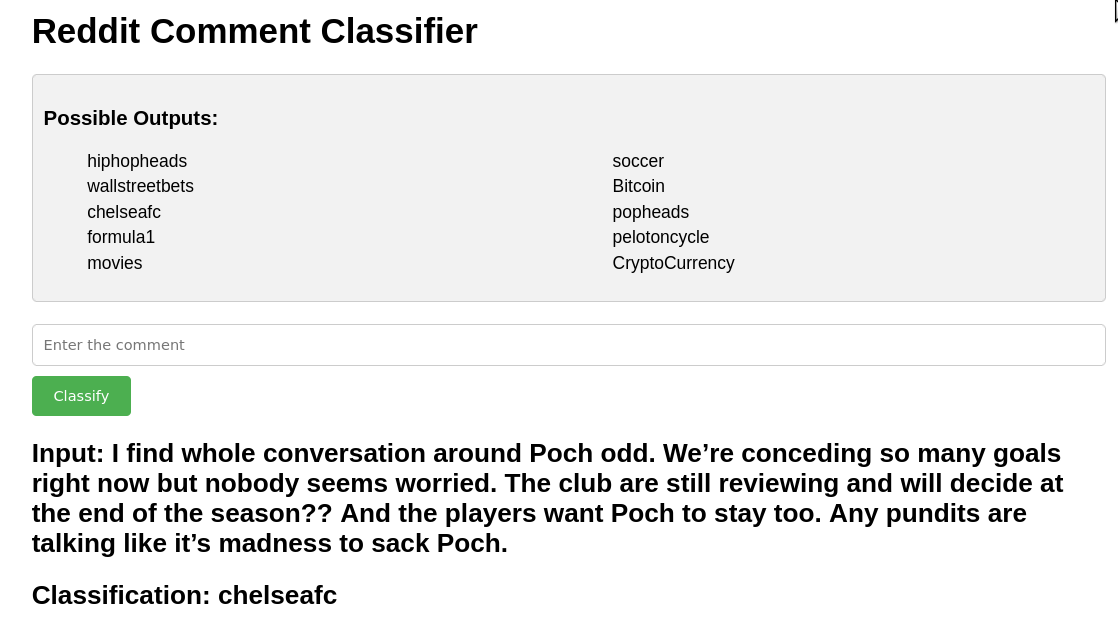
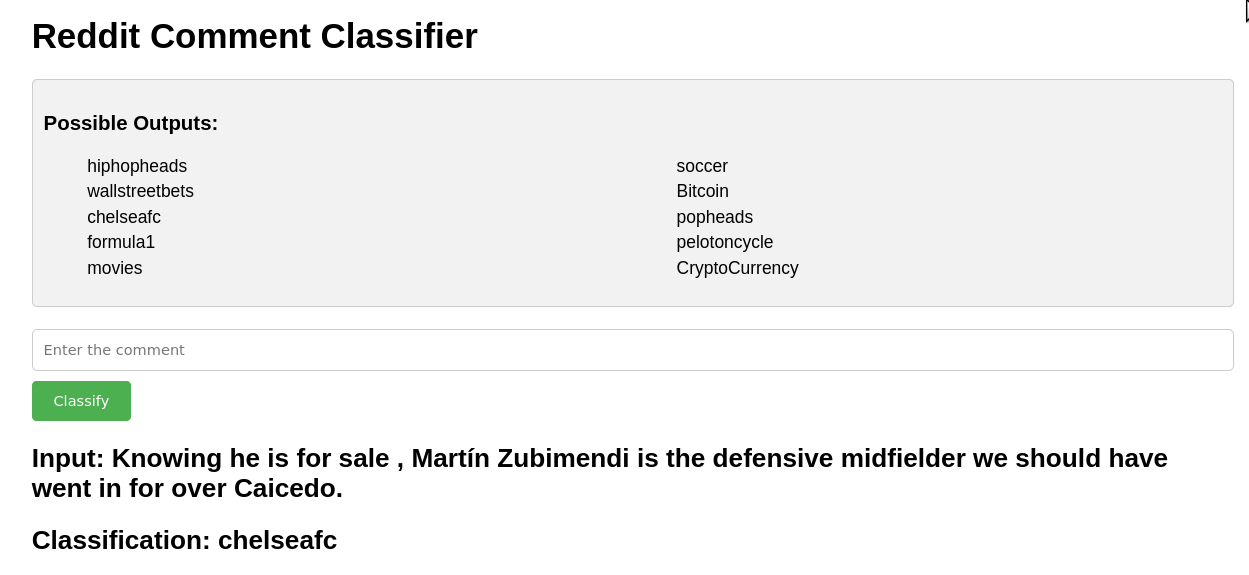
readme

diff --git a/README.md b/README.md
@@ -77,22 +77,19 @@ docker run -p 5000:5000 nickeisenberg/reddit-comment-classifier:v0.0
 
 # Small Demo 
 Here are two comments from April 26th's
-[soccer](https://www.reddit.com/r/soccer/comments/1cdcxww/daily_discussion/)
+[soccer](https://www.reddit.com/r/soccer/comments/1ce59q1/comment/l1h5nzl/?utm_source=share&utm_medium=web3x&utm_name=web3xcss&utm_term=1&utm_content=share_button)
 and
-[chelseafc](https://www.reddit.com/r/chelseafc/comments/1cdcy2m/daily_discussion_thread/)
+[chelseafc](https://www.reddit.com/r/chelseafc/comments/1cdcy2m/comment/l1fvy53/?utm_source=share&utm_medium=web3x&utm_name=web3xcss&utm_term=1&utm_content=share_button)
 daily discussion
 
-* Soccer: Wirtz potentially using Bayern as a stepping stone to playing abroad
-  feels weird, feel like they are the one club along with Barcelona(Exception
-  being R9 one time and i guess Neymar but that was a money thing) and Madrid
-  that does not happen to and Kroos doesn't really count because it was a money
-  thing 
+* Soccer: Dante since turning 35 has already racked up almost 200 appearances
+  for OGC Nice. Honestly fair play to him he was never the greatest CB on the
+  planet but staying at a mid-level club in a top league into your 40's is
+  always very impressive
 
   ![](./soccer.png) 
 
-* Chelseafc: I find whole conversation around Poch odd. We’re conceding so many
-  goals right now but nobody seems worried. The club are still reviewing and
-  will decide at the end of the season?? And the players want Poch to stay too.
-  Any pundits are talking like it’s madness to sack Poch. 
+* Chelseafc: Knowing he is for sale , Martín Zubimendi is the defensive
+  midfielder we should have went in for over Caicedo.
 
   ![](./chelsea.png) 
